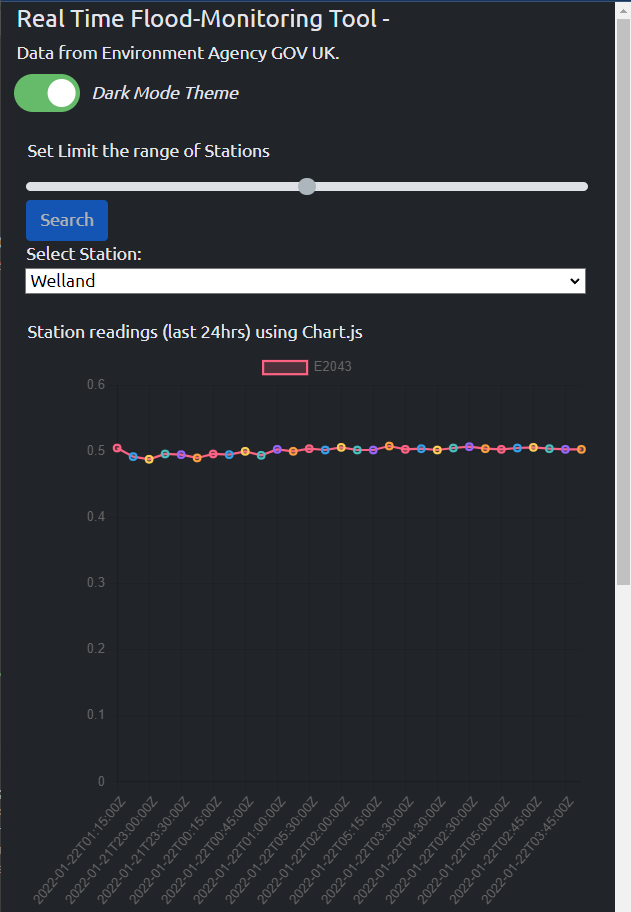
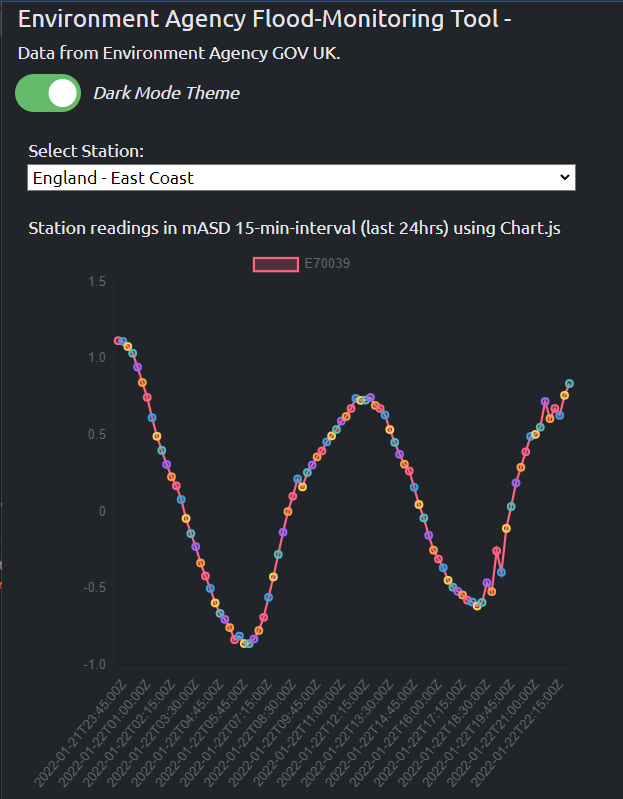
Fixed double data being displayed & added correct screenshots.

diff --git a/frontend/index.html b/frontend/index.html
@@ -55,14 +55,16 @@
           <div class="row">
             <div class="col-auto">
               <div class="input-group input-group-lg">
-                <!-- Input Range field -->
+                <!-- Input Range field 
                 <label for="setRange" class="form-label">Set Limit the range of Stations</label>
                 <input id="setRange" type="range" class="form-range" min="0" max="4999" disabled/>
+                -->
 
-                <!-- Search - by limiting the stations by query -->
+                <!-- Search - by limiting the stations by query 
                 <div class="input-group input-group-md">
                   <button id="search" class="btn btn-primary" type="button" disabled>Search</button>
                 </div>
+                -->
 
                 <!-- Select field -->
                 <div class="input-group input-group-lg">
@@ -76,7 +78,7 @@
 
               <!-- Chart.js -->
               <div id="displayMyChart" class="">
-                <h6>Station readings (last 24hrs) using Chart.js</h6>
+                <h6>Station readings in mASD 15-min-interval (last 24hrs) using Chart.js</h6>
                 <canvas id="myChart" width="400" height="400"></canvas>
               </div>
 
@@ -86,17 +88,17 @@
                   <div id="divTable">Associated table:</div>
                   <thead id="tableHeader">
                     <tr>
-                      <th scope="col">Station</th>
-                      <th scope="col">X: Time</th>
-                      <th scope="col">Y: Readings</th>
+                      <th scope="col-auto">Station</th>
+                      <th scope="col-auto">Y: Readings</th>
+                      <th scope="col-auto">X: Time</th>
                     </tr>
                   </thead>
 
                   <tbody id="extractData">
                     <tr>
                       <td id="stationName"></td>
-                      <td id="time"></td>
                       <td id="readings"></td>
+                      <td id="time"></td>
                     </tr>
                   </tbody>
                 </table>

diff --git a/frontend/js/app.js b/frontend/js/app.js
@@ -189,10 +189,10 @@ $(function() {
 
             // Display Station ID & Time
             $('#stationName').html('<th>'+value+'</th>');
-            $('#time').append('<td id="time'+countStr+'">'+dateTime+'</td></br>');
-            $('#readings').append('<td id="readings'+countStr+'">'+readings+'</td></br>');
-            $('#extractData tbody').append(`<tr>${$('#time').append(dateTime+'\n')}</tr></br>`);
-            $('#extractData tbody').append(`<tr>${$('#readings').append(readings+'\n')}</tr></br>`);
+            $('#time').append('<td></td>');
+            $('#readings').append('<td></td>');
+            $('#extractData tbody').append(`<tr>${$('#time').append(dateTime)}</tr></br>`);
+            $('#extractData tbody').append(`<tr>${$('#readings').append(readings)}</tr></br>`);
 
             countStr++;
             timeStamp.push(dateTime);
